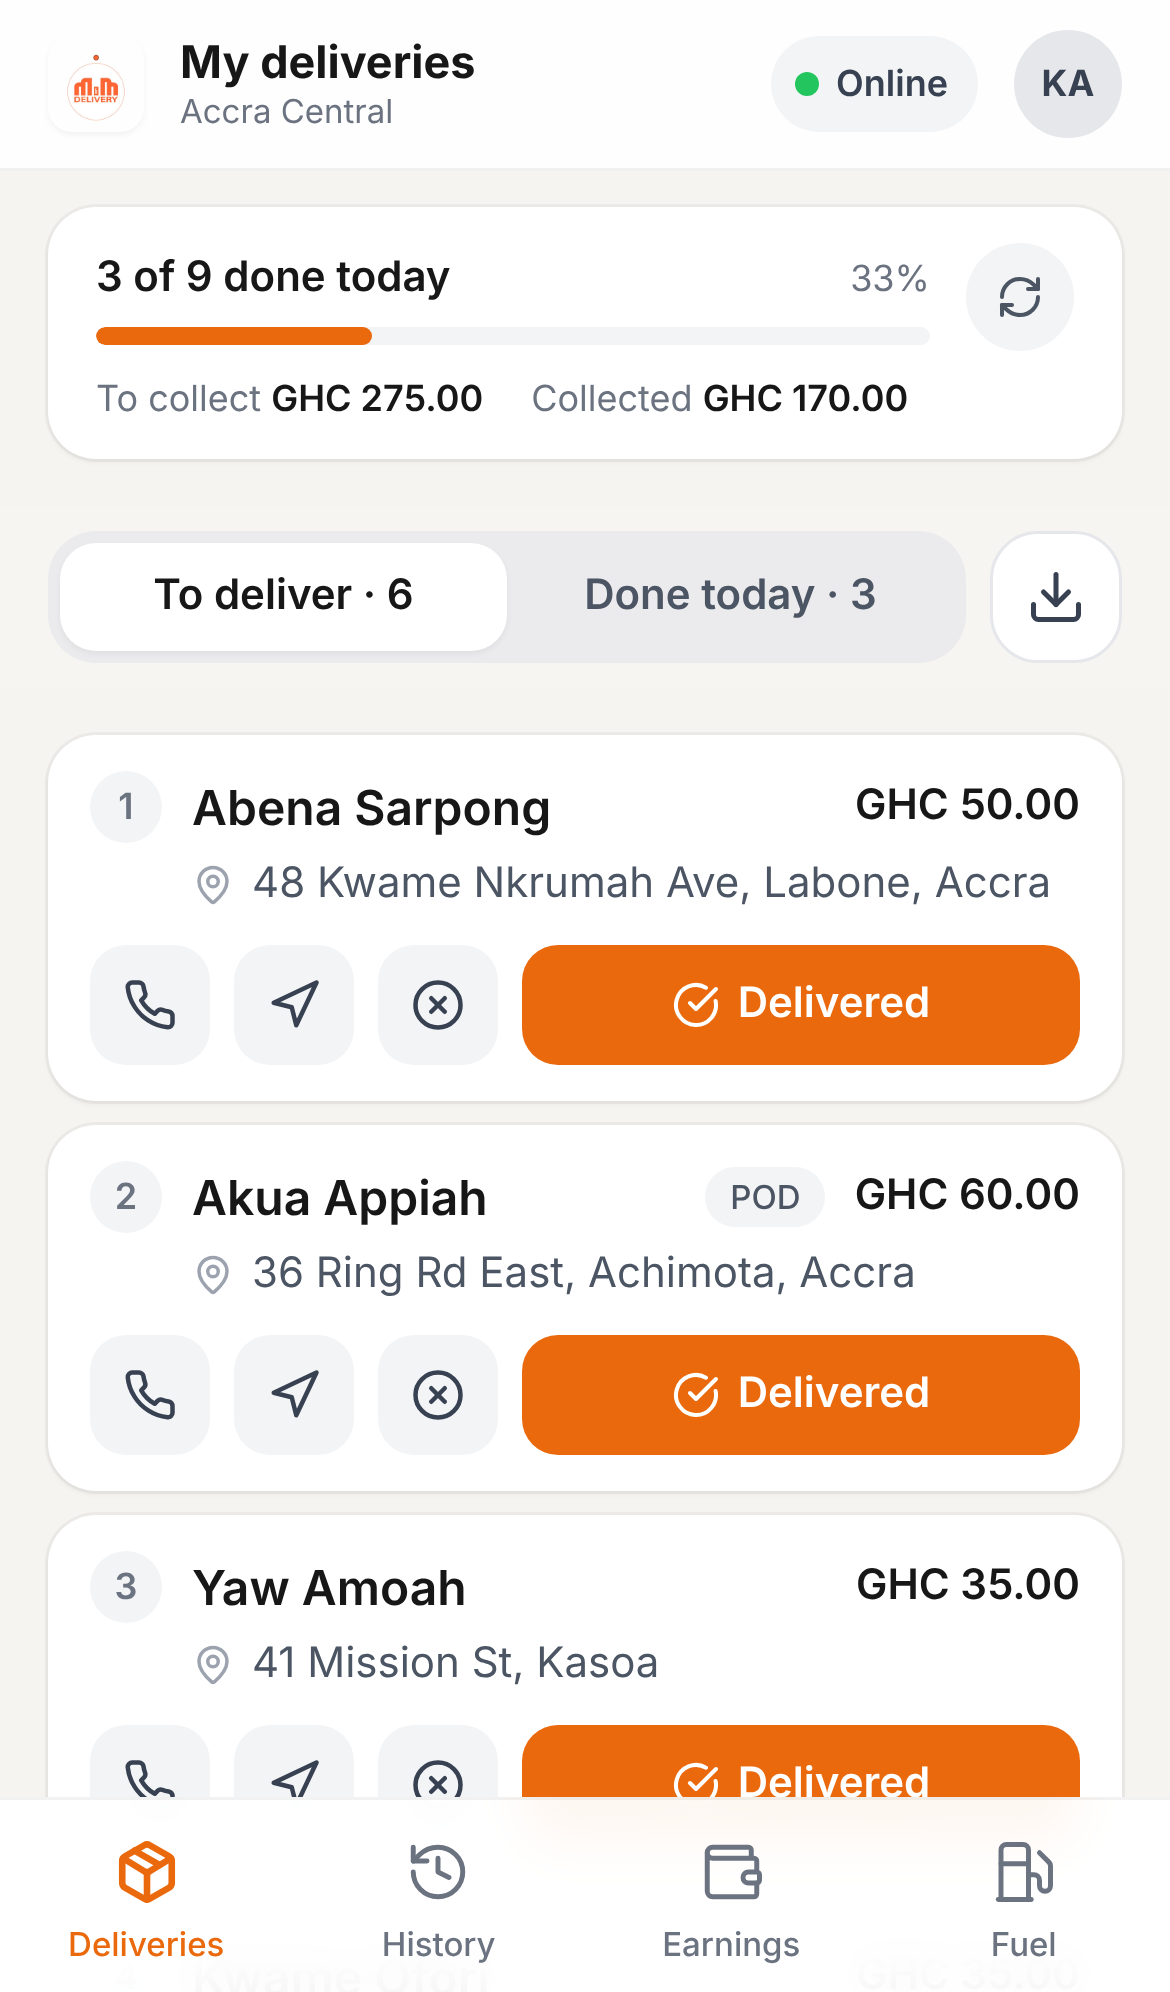
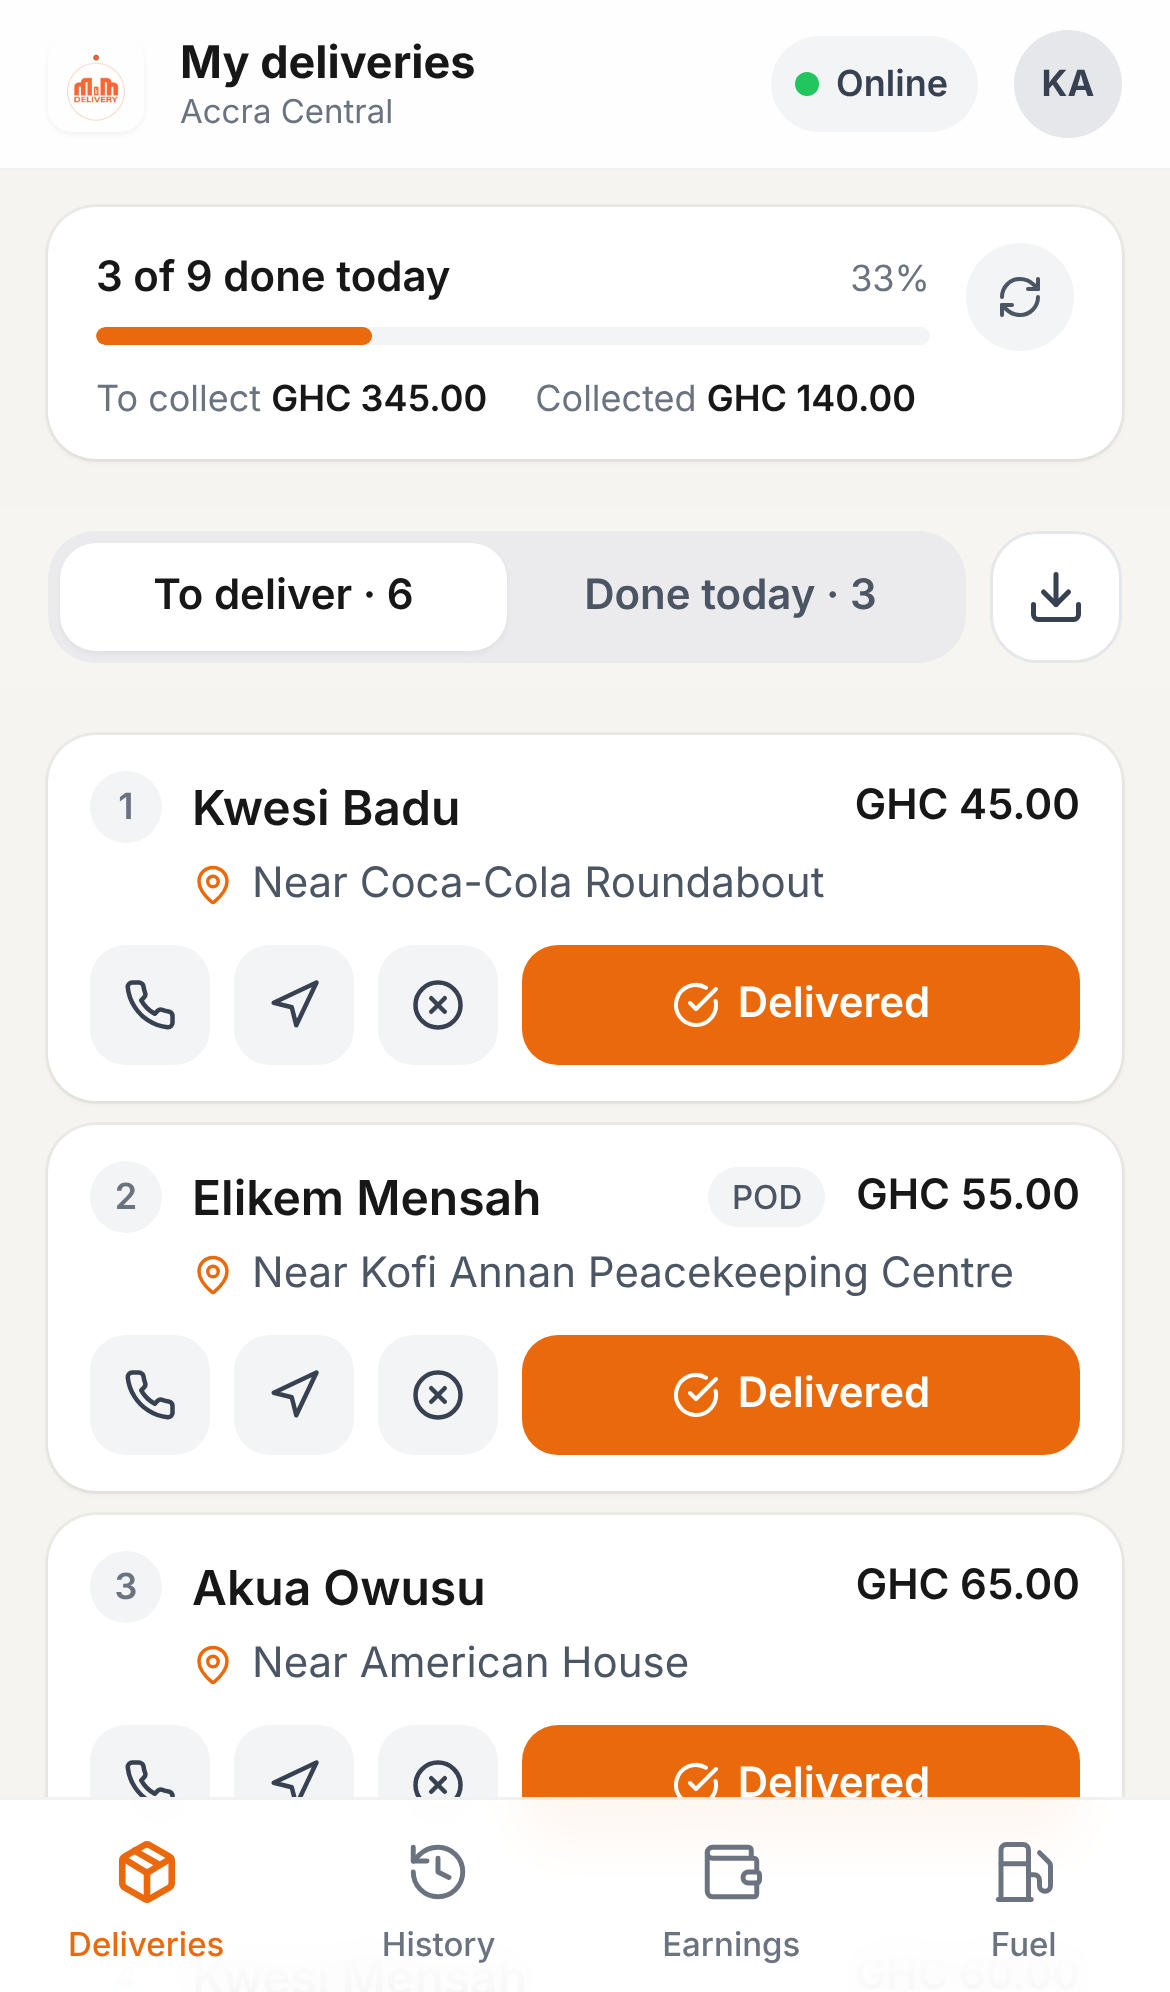
Route rider directions to the delivery pin
The rider app now keeps receiverLatitude / receiverLongitude /
receiverLocationName from assignments. Directions open Google Maps
routing to the pinned coordinates (the Maps app on phones), falling back
to searching the address text when a parcel has no pin. Delivery cards
show the landmark name with an orange pin, and the details sheet shows
the landmark above the street address.

Claude-Session: https://claude.ai/code/session_01LFKpgJ4YUdgAaptEL6Tn7h

diff --git a/src/components/rider/RiderUI.tsx b/src/components/rider/RiderUI.tsx
@@ -11,8 +11,28 @@ export const parcelTotal = (p?: RiderParcelResponse | null) =>
 
 export const telHref = (phone?: string) => (phone ? `tel:${phone.replace(/\s/g, "")}` : undefined);
 
-export const mapsHref = (address?: string) =>
-    address ? `https://www.google.com/maps/search/?api=1&query=${encodeURIComponent(`${address}, Ghana`)}` : undefined;
+const hasPin = (p?: Pick<RiderParcelResponse, "receiverLatitude" | "receiverLongitude"> | null) =>
+    p?.receiverLatitude != null && p?.receiverLongitude != null &&
+    Number.isFinite(p.receiverLatitude) && Number.isFinite(p.receiverLongitude);
+
+/**
+ * Directions for a delivery. With a pinned drop-off, Google Maps routes straight to the
+ * coordinates (opens the Maps app on phones); otherwise it searches the address text.
+ */
+export const directionsHref = (p?: RiderParcelResponse | null) => {
+    if (hasPin(p)) {
+        return `https://www.google.com/maps/dir/?api=1&destination=${p!.receiverLatitude},${p!.receiverLongitude}&travelmode=driving`;
+    }
+    return p?.receiverAddress
+        ? `https://www.google.com/maps/search/?api=1&query=${encodeURIComponent(`${p.receiverAddress}, Ghana`)}`
+        : undefined;
+};
+
+/** Where the parcel is going, for display: pinned landmark first, then the address text. */
+export const destinationLabel = (p?: RiderParcelResponse | null) =>
+    (hasPin(p) && p!.receiverLocationName) || p?.receiverAddress || undefined;
+
+export { hasPin };
 
 export const timeOf = (ts?: number) =>
     ts ? new Date(ts).toLocaleTimeString("en-GB", { hour: "2-digit", minute: "2-digit" }) : "";
@@ -153,11 +173,19 @@ export const ParcelDetails = ({ assignment }: { assignment: RiderAssignmentRespo
                     )}
                 </Row>
                 <Row icon={<MapPinIcon className="w-4 h-4" />} label="Delivery address">
-                    {p.receiverAddress || "No address given"}
-                    {p.receiverAddress && (
-                        <a href={mapsHref(p.receiverAddress)} target="_blank" rel="noreferrer" className="flex items-center gap-1 text-gray-700 font-semibold underline decoration-gray-300 underline-offset-2 mt-0.5">
-                            <Navigation className="w-3.5 h-3.5" /> Open in Maps
+                    {hasPin(p) && p.receiverLocationName && (
+                        <span className="block">{p.receiverLocationName}</span>
+                    )}
+                    <span className={hasPin(p) && p.receiverLocationName ? "block text-gray-500 font-normal" : undefined}>
+                        {p.receiverAddress || (hasPin(p) ? "" : "No address given")}
+                    </span>
+                    {directionsHref(p) && (
+                        <a href={directionsHref(p)} target="_blank" rel="noreferrer" className="flex items-center gap-1 text-gray-700 font-semibold underline decoration-gray-300 underline-offset-2 mt-0.5">
+                            <Navigation className="w-3.5 h-3.5" /> {hasPin(p) ? "Directions to the pin" : "Search address in Maps"}
                         </a>
+                    )}
+                    {!hasPin(p) && p.receiverAddress && (
+                        <span className="block text-[11px] text-gray-400 font-normal mt-0.5">No map pin for this parcel; directions use the address text.</span>
                     )}
                 </Row>
                 <Row icon={<PackageIcon className="w-4 h-4" />} label="Item">

diff --git a/src/screens/RiderDashboard/RiderDashboard.tsx b/src/screens/RiderDashboard/RiderDashboard.tsx
@@ -20,7 +20,7 @@ import { generateAssignmentsPDF } from "../../utils/pdfGenerator";
 import { useStation } from "../../contexts/StationContext";
 import {
     BottomSheet, CardSkeleton, EmptyState, IconAction, ParcelDetails, StatusPill,
-    mapsHref, parcelTotal, telHref, timeOf,
+    destinationLabel, directionsHref, hasPin, parcelTotal, telHref, timeOf,
 } from "../../components/rider/RiderUI";
 
 type UIStatus = "assigned" | "accepted" | "picked-up" | "out-for-delivery" | "delivered" | "delivery-failed";
@@ -468,15 +468,15 @@ export const RiderDashboard = (): JSX.Element => {
                                             <span className="shrink-0 font-semibold text-sm">{formatCurrency(parcelTotal(p))}</span>
                                         </div>
                                         <p className="flex items-center gap-1.5 text-sm text-gray-600 mt-1 pl-[34px]">
-                                            <MapPinIcon className="w-3.5 h-3.5 shrink-0 text-gray-400" />
-                                            <span className="truncate">{p.receiverAddress || "No address given"}</span>
+                                            <MapPinIcon className={`w-3.5 h-3.5 shrink-0 ${hasPin(p) ? "text-[#ea690c]" : "text-gray-400"}`} />
+                                            <span className="truncate">{destinationLabel(p) || "No address given"}</span>
                                         </p>
 
                                         <div className="flex items-center gap-2 mt-2.5">
                                             <IconAction href={telHref(p.recieverPhoneNumber)} label="Call recipient">
                                                 <Phone className="w-[18px] h-[18px]" />
                                             </IconAction>
-                                            <IconAction href={mapsHref(p.receiverAddress)} label="Directions">
+                                            <IconAction href={directionsHref(p)} label={hasPin(p) ? "Directions to the drop-off pin" : "Search the address in Maps"}>
                                                 <Navigation className="w-[18px] h-[18px]" />
                                             </IconAction>
                                             <button

diff --git a/src/components/rider/RiderUI.test.ts b/src/components/rider/RiderUI.test.ts
@@ -1,0 +1,28 @@
+import { describe, it, expect } from "vitest";
+import { destinationLabel, directionsHref, hasPin } from "./RiderUI";
+
+const base = { parcelId: "P1", receiverAddress: "12 Oxford St, Osu" };
+
+describe("directionsHref", () => {
+    it("routes to the pin's coordinates when the parcel has one", () => {
+        const href = directionsHref({ ...base, receiverLatitude: 5.6223, receiverLongitude: -0.1735 });
+        expect(href).toBe("https://www.google.com/maps/dir/?api=1&destination=5.6223,-0.1735&travelmode=driving");
+    });
+    it("falls back to searching the address text without a pin", () => {
+        expect(directionsHref(base)).toBe("https://www.google.com/maps/search/?api=1&query=12%20Oxford%20St%2C%20Osu%2C%20Ghana");
+    });
+    it("treats 0 as a real coordinate and ignores half pins", () => {
+        expect(hasPin({ receiverLatitude: 0, receiverLongitude: 0 })).toBe(true);
+        expect(hasPin({ receiverLatitude: 5.6 })).toBe(false);
+    });
+    it("gives nothing when there is neither a pin nor an address", () => {
+        expect(directionsHref({ parcelId: "P2" })).toBeUndefined();
+    });
+});
+
+describe("destinationLabel", () => {
+    it("prefers the pinned landmark name, then the address", () => {
+        expect(destinationLabel({ ...base, receiverLatitude: 5.6, receiverLongitude: -0.2, receiverLocationName: "Near Accra Mall" })).toBe("Near Accra Mall");
+        expect(destinationLabel(base)).toBe("12 Oxford St, Osu");
+    });
+});

diff --git a/src/services/riderService.ts b/src/services/riderService.ts
@@ -38,6 +38,10 @@ interface RiderParcelResponse {
     inboudPayed?: string;
     shelfId?: string;
     homeDelivery?: boolean;
+    // Pinned drop-off chosen at intake (docs/BACKEND_HANDOFF.md, Part A)
+    receiverLatitude?: number;
+    receiverLongitude?: number;
+    receiverLocationName?: string;
     pod?: boolean;
     delivered?: boolean;
     cancelled?: boolean;
@@ -193,6 +197,9 @@ class RiderService {
                     senderPhoneNumber: parcelItem.senderPhoneNumber,
                     receiverName: parcelItem.receiverName,
                     receiverAddress: parcelItem.receiverAddress,
+                    receiverLatitude: parcelItem.receiverLatitude ?? undefined,
+                    receiverLongitude: parcelItem.receiverLongitude ?? undefined,
+                    receiverLocationName: parcelItem.receiverLocationName ?? undefined,
                     recieverPhoneNumber: receiverPhone, // Map receiverPhoneNumber to recieverPhoneNumber (typo in interface)
                     shelfName: parcelItem.shelfName,
                     shelfId: parcelItem.shelfId,

diff --git a/docs/BACKEND_HANDOFF.md b/docs/BACKEND_HANDOFF.md
@@ -347,7 +347,7 @@ Thresholds should be configurable. Nothing in the frontend depends on alerts yet
 
 Once A3 is in place, the frontend team should:
 
-- **Rider app:** pass the new fields through `riderService.getAssignments` (its `mapParcelFromNewFormat` keeps only known fields). Then point the rider app's Directions button at `receiverLatitude/Longitude` instead of the address text.
+- ~~**Rider app:** pass the new fields through `riderService.getAssignments` and point Directions at the pin.~~ **Done.** The rider app reads `receiverLatitude`, `receiverLongitude` and `receiverLocationName` from `GET /api-rider/assignments` (`ParcelInfo`). Directions open Google Maps routing to the pin, and fall back to searching the address text when there's no pin. **This only works once A3 returns these fields on `ParcelInfo` for the rider endpoint.**
 - **Parcel Search / Edit Parcel:** show the location, and let staff add or correct a pin on existing parcels (uses `PUT /api-frontdesk/parcel/{id}`, A2).
 
 ---
